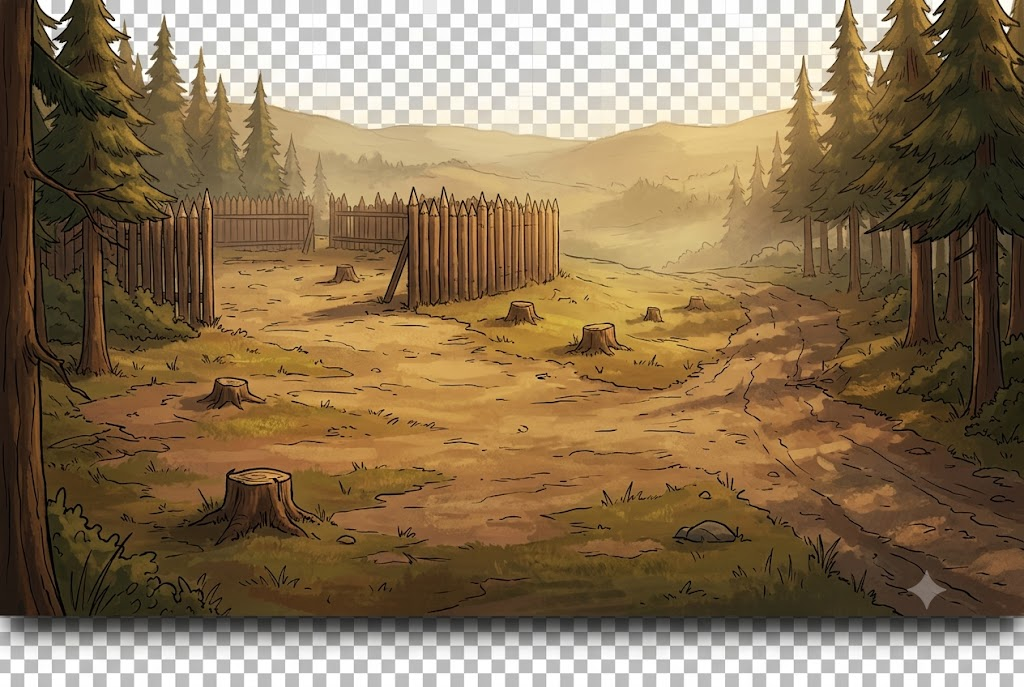
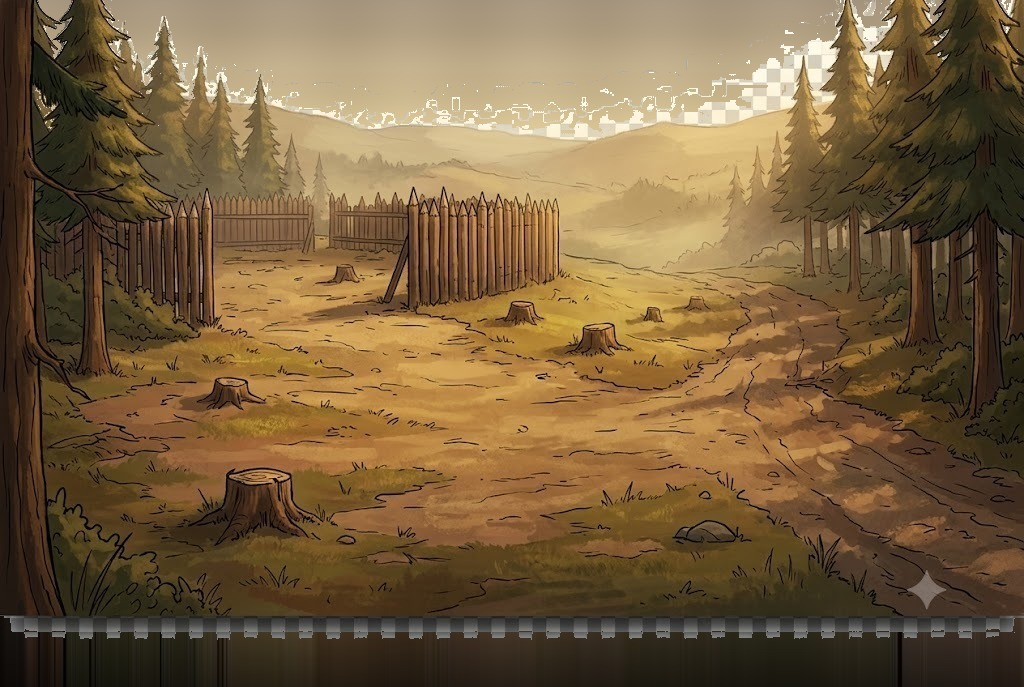
fix: ripara checkerboard nella bg_stage1.jpg dell'accampamento
Sostituisce i pixel grigi/bianchi del checkerboard (area cielo in alto,
rows 0-130) con un gradiente nebbia caldo e corregge la banda grigia
in basso (rows 615-686) estendendo i colori scuri della foresta.

diff --git a/sw.js b/sw.js
@@ -5,7 +5,7 @@
 
 
 
-const CACHE = 'heropace-v261';
+const CACHE = 'heropace-v262';
 const NOTIF_CACHE = 'heropace-notif-v1'; // stato notifiche (non cancellare mai)
 
 /* File solo per fallback offline — NON pre-cachati all'install */
